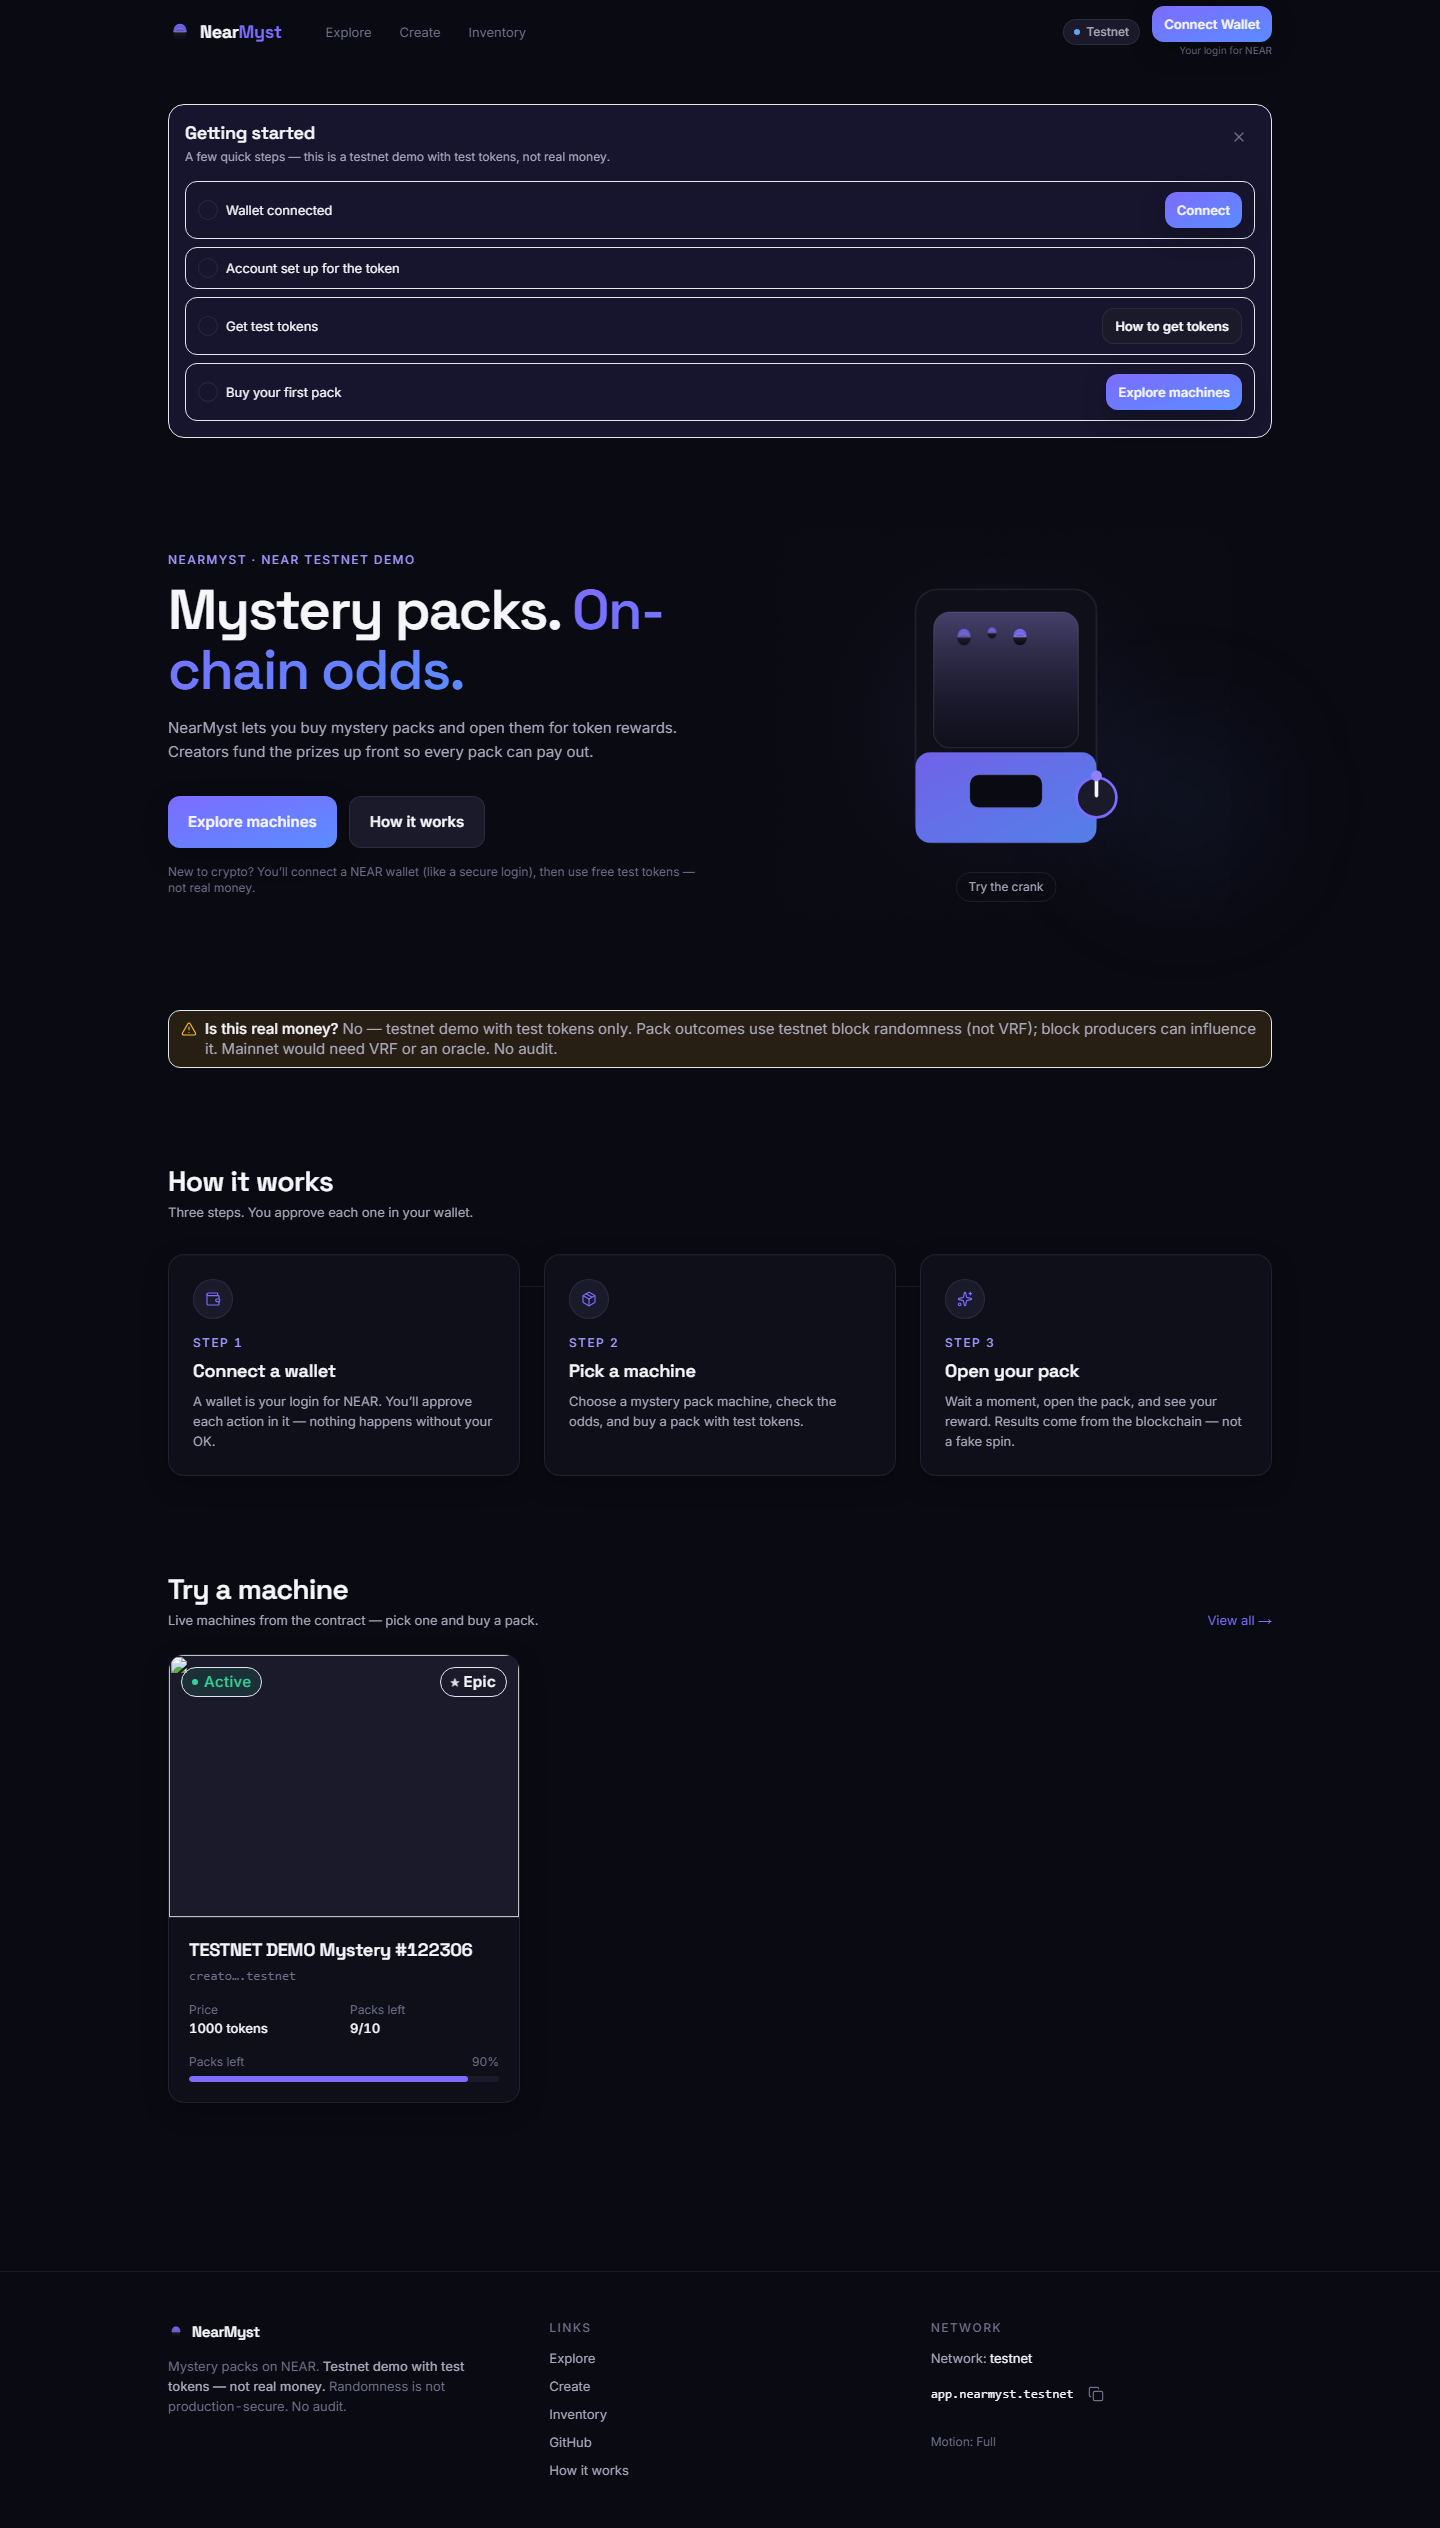
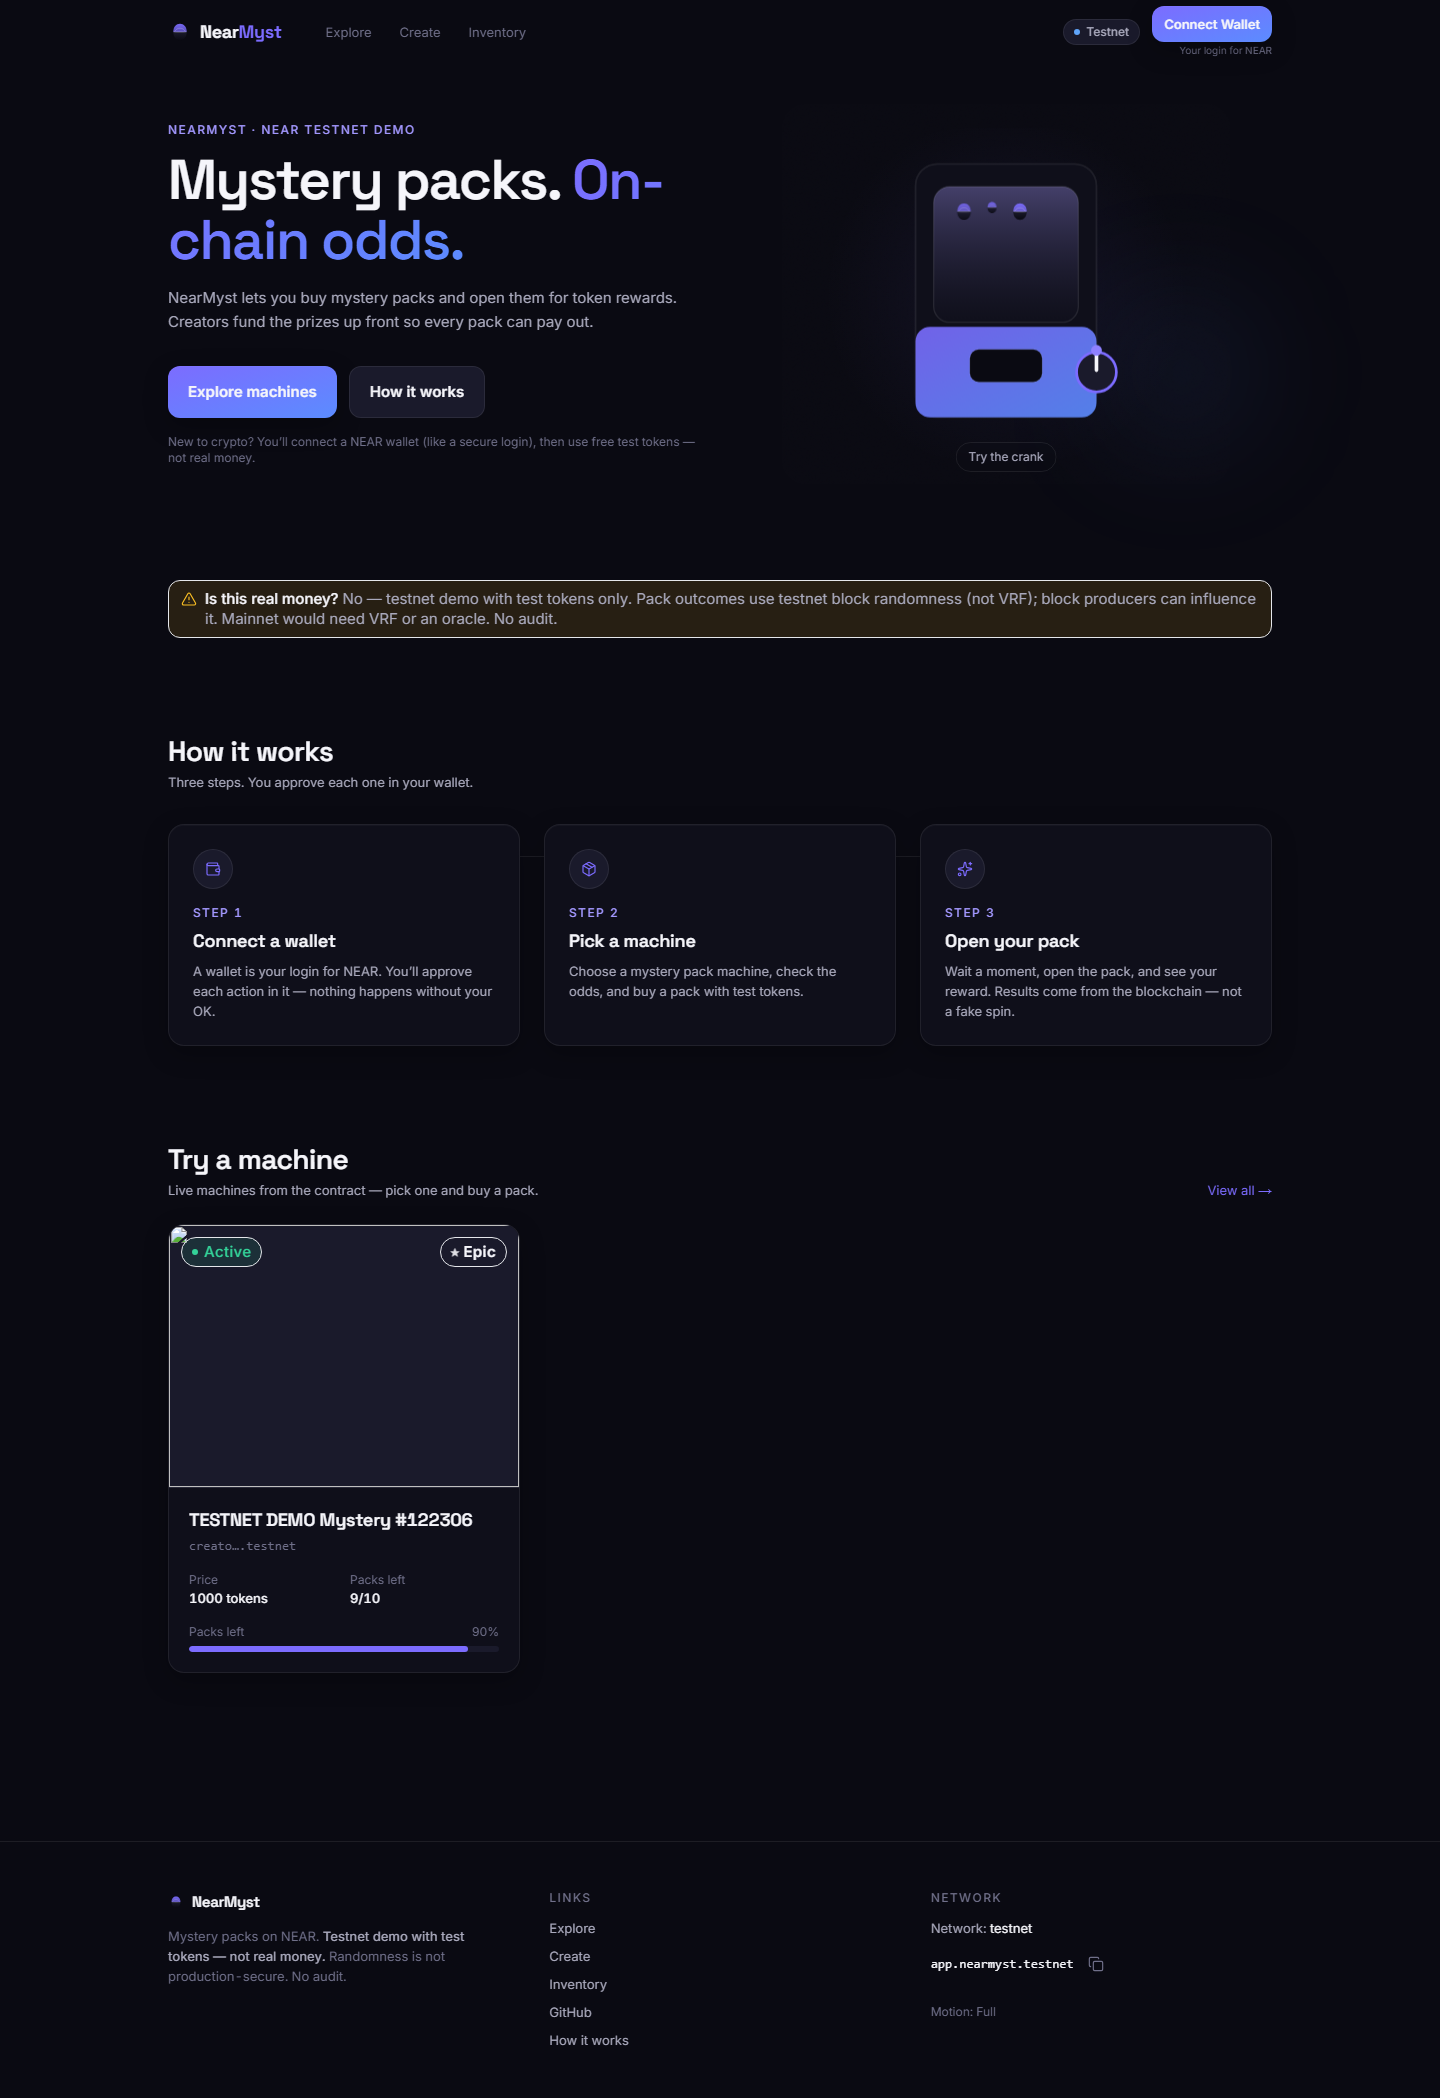
NearMyst: motion polish and hero effect

diff --git a/web/src/components/motion/hero-aurora.tsx b/web/src/components/motion/hero-aurora.tsx
@@ -1,0 +1,76 @@
+"use client";
+
+/**
+ * Lightweight CSS aurora for the home hero.
+ * Inspired by the calm gradient/aurora feel of Componentry-style heroes —
+ * implemented in-house (no three.js / WebGL). Brand violet #7C6CFF.
+ * Lazy-friendly: client-only; paused when tab hidden; static on mobile /
+ * reduced-motion / low-power.
+ */
+
+import { useEffect, useState } from "react";
+import { useMotionPreference } from "@/components/providers/motion-provider";
+import { cn } from "@/lib/utils";
+
+function usePrefersLowPower() {
+  const [low, setLow] = useState(true);
+  useEffect(() => {
+    const narrow = window.matchMedia("(max-width: 768px)");
+    const reduced = window.matchMedia("(prefers-reduced-motion: reduce)");
+    // Approximate low-power: save-data or ≤4 cores
+    const saveData =
+      typeof navigator !== "undefined" &&
+      "connection" in navigator &&
+      Boolean(
+        (navigator as Navigator & { connection?: { saveData?: boolean } })
+          .connection?.saveData,
+      );
+    const cores = navigator.hardwareConcurrency ?? 8;
+    const compute = () =>
+      setLow(narrow.matches || reduced.matches || saveData || cores <= 4);
+    compute();
+    narrow.addEventListener("change", compute);
+    reduced.addEventListener("change", compute);
+    return () => {
+      narrow.removeEventListener("change", compute);
+      reduced.removeEventListener("change", compute);
+    };
+  }, []);
+  return low;
+}
+
+function useTabVisible() {
+  const [visible, setVisible] = useState(true);
+  useEffect(() => {
+    const onVis = () => setVisible(document.visibilityState === "visible");
+    document.addEventListener("visibilitychange", onVis);
+    return () => document.removeEventListener("visibilitychange", onVis);
+  }, []);
+  return visible;
+}
+
+export function HeroAurora({ className }: { className?: string }) {
+  const { reduced } = useMotionPreference();
+  const lowPower = usePrefersLowPower();
+  const visible = useTabVisible();
+  const animate = !reduced && !lowPower && visible;
+
+  return (
+    <div
+      aria-hidden
+      className={cn(
+        "pointer-events-none absolute inset-0 -z-10 overflow-hidden",
+        className,
+      )}
+    >
+      <div className="absolute inset-0 bg-[radial-gradient(ellipse_at_20%_0%,rgba(124,108,255,0.22),transparent_55%),radial-gradient(ellipse_at_90%_10%,rgba(91,140,255,0.14),transparent_50%),radial-gradient(ellipse_at_50%_100%,rgba(124,108,255,0.08),transparent_45%)]" />
+      {animate ? (
+        <>
+          <div className="hero-aurora-blob hero-aurora-blob-a" />
+          <div className="hero-aurora-blob hero-aurora-blob-b" />
+        </>
+      ) : null}
+      <div className="absolute inset-0 bg-[linear-gradient(to_bottom,transparent,var(--bg-base))] opacity-80" />
+    </div>
+  );
+}

diff --git a/web/src/lib/motion.ts b/web/src/lib/motion.ts
@@ -1,37 +1,54 @@
-/** Shared motion tokens — keep durations/easings consistent. */
+/** Shared motion presets — transform/opacity only; durations 0.2–0.4s. */
 
 export const duration = {
-  fast: 0.15,
-  base: 0.2,
-  slow: 0.3,
-  reveal: 0.7,
+  fast: 0.2,
+  base: 0.28,
+  slow: 0.4,
+  reveal: 0.55,
 } as const;
 
 export const ease = {
   out: [0.16, 1, 0.3, 1] as const,
-  spring: [0.34, 1.56, 0.64, 1] as const,
+  soft: [0.22, 1, 0.36, 1] as const,
+} as const;
+
+export const spring = {
+  snappy: { type: "spring" as const, stiffness: 420, damping: 32, mass: 0.8 },
+  soft: { type: "spring" as const, stiffness: 260, damping: 28, mass: 0.9 },
 };
 
 export const stagger = {
-  tight: 0.04,
-  base: 0.06,
-  loose: 0.08,
+  tight: 0.05,
+  base: 0.07,
+  loose: 0.1,
 } as const;
 
 export const fadeUp = {
-  initial: { opacity: 0, y: 8 },
+  initial: { opacity: 0, y: 10 },
   animate: { opacity: 1, y: 0 },
-  transition: { duration: duration.slow, ease: ease.out },
+  exit: { opacity: 0, y: 6 },
+  transition: { duration: duration.base, ease: ease.out },
 };
 
 export const fadeIn = {
   initial: { opacity: 0 },
   animate: { opacity: 1 },
-  transition: { duration: duration.base, ease: ease.out },
+  exit: { opacity: 0 },
+  transition: { duration: duration.fast, ease: ease.out },
 };
 
 export const scaleIn = {
   initial: { opacity: 0, scale: 0.96 },
   animate: { opacity: 1, scale: 1 },
+  exit: { opacity: 0, scale: 0.98 },
   transition: { duration: duration.base, ease: ease.out },
+};
+
+export const hoverLift = {
+  whileHover: { y: -2, transition: { duration: duration.fast, ease: ease.out } },
+  whileTap: { scale: 0.98, transition: { duration: 0.12 } },
+};
+
+export const press = {
+  whileTap: { scale: 0.98, transition: { duration: 0.12 } },
 };

diff --git a/web/src/components/ux/flow-progress.tsx b/web/src/components/ux/flow-progress.tsx
@@ -1,3 +1,8 @@
+"use client";
+
+import { motion } from "motion/react";
+import { useMotionPreference } from "@/components/providers/motion-provider";
+import { duration, ease } from "@/lib/motion";
 import { cn } from "@/lib/utils";
 
 const STEPS = [
@@ -17,6 +22,7 @@ export function PackFlowProgress({
   className?: string;
 }) {
   const idx = STEPS.findIndex((s) => s.id === current);
+  const { reduced } = useMotionPreference();
 
   return (
     <ol
@@ -27,15 +33,22 @@ export function PackFlowProgress({
         const done = i < idx;
         const active = i === idx;
         return (
-          <li key={step.id} className="flex flex-1 items-center gap-1">
+          <li key={step.id} className="relative flex flex-1 items-center gap-1">
             <div
               className={cn(
-                "flex h-7 w-full items-center justify-center rounded-md border text-caption font-medium",
+                "relative z-10 flex h-7 w-full items-center justify-center rounded-md border text-caption font-medium",
                 done && "border-success/40 bg-success-tint text-success",
                 active && "border-brand/40 bg-brand-tint text-primary",
                 !done && !active && "border-border bg-subtle text-muted",
               )}
             >
+              {active && !reduced ? (
+                <motion.span
+                  layoutId="pack-flow-active"
+                  className="absolute inset-0 -z-10 rounded-md bg-brand/10"
+                  transition={{ duration: duration.base, ease: ease.out }}
+                />
+              ) : null}
               {step.label}
             </div>
           </li>

diff --git a/web/src/app/globals.css b/web/src/app/globals.css
@@ -356,6 +356,60 @@ body {
 
 html.motion-reduced .animate-floaty,
 html.motion-reduced .animate-capsule-pulse,
-html.motion-reduced .skeleton-shimmer::after {
+html.motion-reduced .skeleton-shimmer::after,
+html.motion-reduced .hero-aurora-blob {
   animation: none !important;
+}
+
+/* Home hero aurora — opacity/transform only; paused via component when tab hidden */
+.hero-aurora-blob {
+  position: absolute;
+  border-radius: 50%;
+  filter: blur(64px);
+  opacity: 0.35;
+  will-change: transform;
+}
+
+.hero-aurora-blob-a {
+  width: min(55vw, 420px);
+  height: min(55vw, 420px);
+  top: -8%;
+  left: -6%;
+  background: radial-gradient(circle, rgba(124, 108, 255, 0.55), transparent 70%);
+  animation: hero-aurora-drift-a 18s ease-in-out infinite;
+}
+
+.hero-aurora-blob-b {
+  width: min(45vw, 360px);
+  height: min(45vw, 360px);
+  top: 10%;
+  right: -4%;
+  background: radial-gradient(circle, rgba(91, 140, 255, 0.4), transparent 70%);
+  animation: hero-aurora-drift-b 22s ease-in-out infinite;
+}
+
+@keyframes hero-aurora-drift-a {
+  0%,
+  100% {
+    transform: translate3d(0, 0, 0) scale(1);
+  }
+  50% {
+    transform: translate3d(4%, 6%, 0) scale(1.08);
+  }
+}
+
+@keyframes hero-aurora-drift-b {
+  0%,
+  100% {
+    transform: translate3d(0, 0, 0) scale(1);
+  }
+  50% {
+    transform: translate3d(-5%, 4%, 0) scale(1.06);
+  }
+}
+
+@media (prefers-reduced-motion: reduce) {
+  .hero-aurora-blob {
+    animation: none !important;
+  }
 }

diff --git a/web/src/components/gacha/reveal-modal.tsx b/web/src/components/gacha/reveal-modal.tsx
@@ -167,15 +167,33 @@ export function RevealModal({
         ) : (
           <motion.div
             key="reveal"
-            initial={reduced ? false : { opacity: 0, scale: 0.94, rotateY: -18 }}
-            animate={{ opacity: 1, scale: 1, rotateY: 0 }}
-            transition={{ duration: 0.5, ease: ease.out }}
+            initial={
+              reduced
+                ? false
+                : {
+                    opacity: 0,
+                    scale:
+                      result.tier === "Mythic" || result.tier === "Legendary"
+                        ? 0.9
+                        : result.tier === "Epic"
+                          ? 0.93
+                          : 0.96,
+                    y: 12,
+                  }
+            }
+            animate={{ opacity: 1, scale: 1, y: 0 }}
+            transition={{
+              duration:
+                result.tier === "Mythic" || result.tier === "Legendary"
+                  ? duration.reveal
+                  : duration.slow,
+              ease: ease.out,
+            }}
             className={cn(
               "relative w-full max-w-md rounded-xl border bg-overlay p-6 shadow-overlay",
               rarityClass(result.tier, "edge"),
             )}
             onClick={(e) => e.stopPropagation()}
-            style={{ transformStyle: "preserve-3d" }}
           >
             {result.tier === "Legendary" && !reduced && (
               <span

diff --git a/web/src/components/motion/animated-number.tsx b/web/src/components/motion/animated-number.tsx
@@ -1,0 +1,43 @@
+"use client";
+
+import { useEffect, useState } from "react";
+import { useMotionPreference } from "@/components/providers/motion-provider";
+import { cn } from "@/lib/utils";
+
+/** Simple integer tween for balances / packs left (transform-free; text only). */
+export function AnimatedNumber({
+  value,
+  className,
+  durationMs = 280,
+}: {
+  value: number;
+  className?: string;
+  durationMs?: number;
+}) {
+  const { reduced } = useMotionPreference();
+  const [display, setDisplay] = useState(value);
+
+  useEffect(() => {
+    if (reduced || !Number.isFinite(value)) {
+      setDisplay(value);
+      return;
+    }
+    const from = display;
+    const to = value;
+    if (from === to) return;
+    const start = performance.now();
+    let raf = 0;
+    const tick = (now: number) => {
+      const t = Math.min(1, (now - start) / durationMs);
+      const eased = 1 - Math.pow(1 - t, 3);
+      setDisplay(Math.round(from + (to - from) * eased));
+      if (t < 1) raf = requestAnimationFrame(tick);
+    };
+    raf = requestAnimationFrame(tick);
+    return () => cancelAnimationFrame(raf);
+    // intentionally re-run only when `value` changes
+    // eslint-disable-next-line react-hooks/exhaustive-deps
+  }, [value, reduced, durationMs]);
+
+  return <span className={cn("tabular", className)}>{display}</span>;
+}

diff --git a/web/src/components/gacha/machine-actions.tsx b/web/src/components/gacha/machine-actions.tsx
@@ -33,6 +33,7 @@ import { Skeleton } from "@/components/ui/skeleton";
 import { OpeningOverlay, RevealModal } from "@/components/gacha/reveal-modal";
 import { StorageRegisterPanel } from "@/components/gacha/storage-register";
 import { GetTestTokensCard } from "@/components/ux/get-test-tokens";
+import { AnimatedNumber } from "@/components/motion/animated-number";
 import { PackFlowProgress, type PackFlowStep } from "@/components/ux/flow-progress";
 import { SpendSummary } from "@/components/ux/spend-summary";
 import { TxStatusPanel, type FriendlyTx } from "@/components/ux/tx-status";
@@ -621,7 +622,7 @@ export function MachineActions({
               {formatTokenAmount(machine.pack_price)} tokens / pack
             </div>
             <div className="truncate">
-              {machine.packs_remaining} left
+              <AnimatedNumber value={machine.packs_remaining} /> left
               {disabledReason ? ` · ${disabledReason}` : ""}
             </div>
           </div>

diff --git a/web/src/app/page.tsx b/web/src/app/page.tsx
@@ -6,6 +6,7 @@ import { Disclaimer } from "@/components/ui/disclaimer";
 import { EmptyState } from "@/components/ui/empty-state";
 import { ErrorPanel } from "@/components/ui/error-panel";
 import { FadeIn, Stagger, StaggerItem } from "@/components/motion/fade-in";
+import { HeroBackdrop } from "@/components/motion/hero-backdrop";
 import { OnboardingChecklist } from "@/components/ux/onboarding-checklist";
 import { getConfig, listMachines } from "@/lib/contract/client";
 import { Wallet, Package, Sparkles } from "lucide-react";
@@ -50,6 +51,7 @@ export default async function HomePage() {
       <OnboardingChecklist />
 
       <section className="relative grid items-center gap-10 lg:grid-cols-2">
+        <HeroBackdrop />
         <FadeIn>
           <p className="text-eyebrow">NearMyst · NEAR testnet demo</p>
           <h1 className="mt-3 text-display text-primary">

diff --git a/web/src/components/motion/hero-backdrop.tsx b/web/src/components/motion/hero-backdrop.tsx
@@ -1,0 +1,13 @@
+"use client";
+
+import dynamic from "next/dynamic";
+
+const HeroAurora = dynamic(
+  () => import("@/components/motion/hero-aurora").then((m) => m.HeroAurora),
+  { ssr: false, loading: () => null },
+);
+
+/** Client boundary so the aurora chunk can load with ssr:false. */
+export function HeroBackdrop() {
+  return <HeroAurora />;
+}
